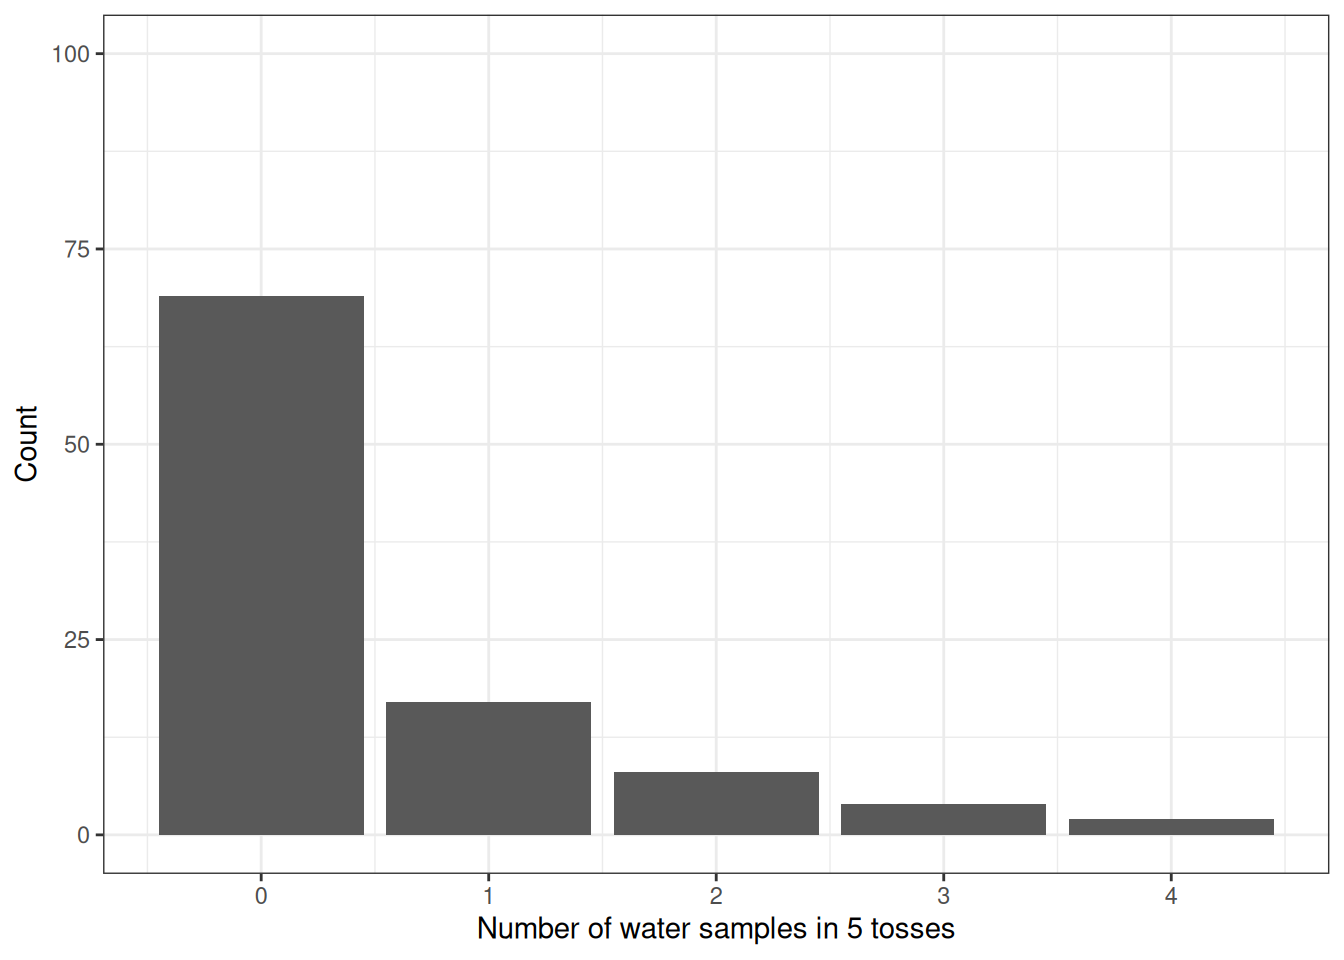
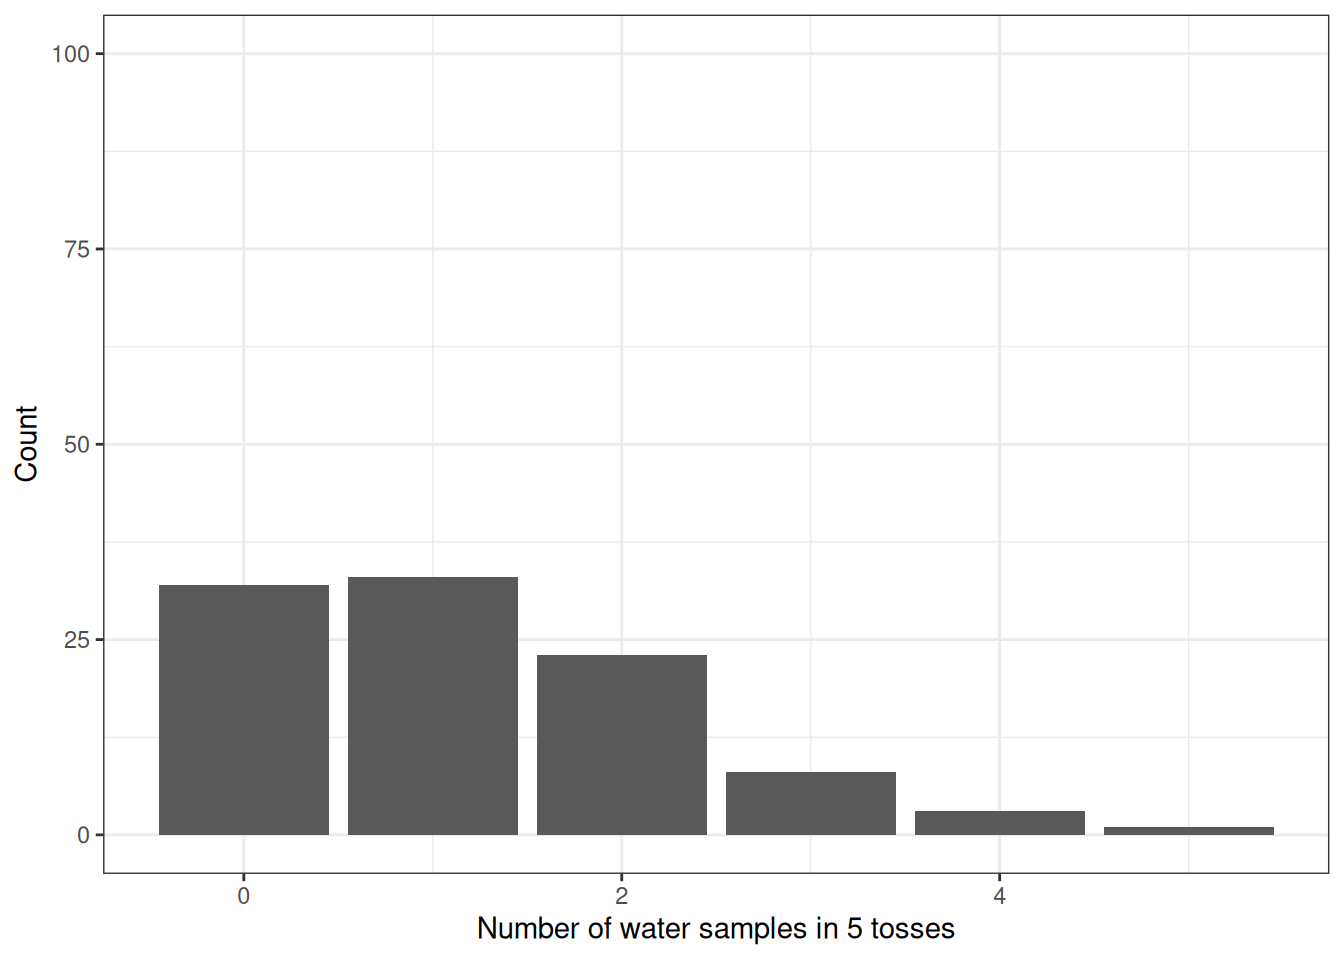
render

Changed region(s): [[0.0938, 0.2812, 0.5625, 0.875], [0.5938, 0.7812, 0.9375, 0.875]]

diff --git a/docs/homework/01-homework.html b/docs/homework/01-homework.html
@@ -232,7 +232,7 @@ pre > code.sourceCode > span > a:first-child::before { text-decoration: underlin
 </blockquote>
 <div class="cell">
 <div class="sourceCode" id="cb2"><pre class="downlit sourceCode r code-with-copy"><code class="sourceCode R"><span><span class="co"># Set number of water and land samples</span></span>
-<span><span class="va">n_water</span> <span class="op">&lt;-</span> <span class="fl">5</span></span>
+<span><span class="va">n_water</span> <span class="op">&lt;-</span> <span class="fl">3</span></span>
 <span><span class="va">n_land</span> <span class="op">&lt;-</span> <span class="fl">11</span></span>
 <span></span>
 <span><span class="co"># Set sequence of possible proportions</span></span>
@@ -288,9 +288,9 @@ pre > code.sourceCode > span > a:first-child::before { text-decoration: underlin
 <span><span class="co">#   probability defined in the posterior distribution</span></span>
 <span><span class="va">size</span> <span class="op">&lt;-</span> <span class="fl">100</span></span>
 <span><span class="va">posterior_samples</span> <span class="op">&lt;-</span> <span class="fu"><a href="https://rdrr.io/r/base/sample.html">sample</a></span><span class="op">(</span></span>
-<span>    <span class="va">q1</span><span class="op">$</span><span class="va">prob_prop</span>,</span>
+<span>    <span class="va">q1</span><span class="op">$</span><span class="va">prop</span>,</span>
 <span>    size <span class="op">=</span> <span class="va">size</span>,</span>
-<span>    prob <span class="op">=</span> <span class="va">q1</span><span class="op">$</span><span class="va">post</span>,</span>
+<span>    prob <span class="op">=</span> <span class="va">q1</span><span class="op">$</span><span class="va">prob_prop</span>,</span>
 <span>    replace <span class="op">=</span> <span class="cn">TRUE</span></span>
 <span><span class="op">)</span></span>
 <span></span>
